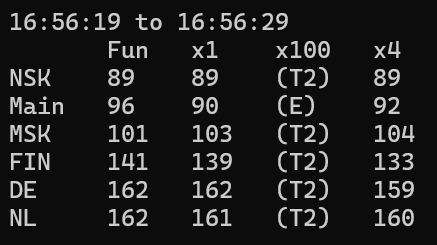
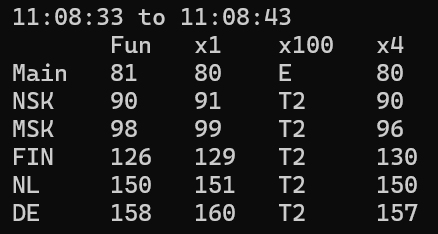
update readme errors image

diff --git a/README.ru.md b/README.ru.md
@@ -49,10 +49,10 @@
 
 ![console output with errors](./images/server_down.png)
 
-Все ошибки логируются в папку `errors` и соотвествующий файл с названием вроде `2026-10-08_14-39-49.txt`:
+Все ошибки логируются в папку `errors` и соотвествующий файл с названием вроде `2026-10-28_11-08-33.txt`:
 
 ```
-2026/10/13 16:51:05 WoW Circle 3.3.5a x100 dial tcp 212.41.28.8:12742: connectex: No connection could be made because the target machine actively refused it.
+2026/10/28 11:08:35 WoW Circle 3.3.5a x100 dial tcp 212.41.28.8:12742: connectex: No connection could be made because the target machine actively refused it.
 ```
 
 ## Использование

diff --git a/README.md b/README.md
@@ -49,10 +49,10 @@ In addition to timeouts, errors may also occur. They are displayed as `E`. For e
 
 ![console output with errors](./images/server_down.png)
 
-All errors are logging into `errors` folder and corresponding file with filename like `2026-10-08_14-39-49.txt`:
+All errors are logging into `errors` folder and corresponding file with filename like `2026-10-28_11-08-33.txt`:
 
 ```
-2026/10/13 16:51:05 WoW Circle 3.3.5a x100 dial tcp 212.41.28.8:12742: connectex: No connection could be made because the target machine actively refused it.
+2026/10/28 11:08:35 WoW Circle 3.3.5a x100 dial tcp 212.41.28.8:12742: connectex: No connection could be made because the target machine actively refused it.
 ```
 
 ## Usage
